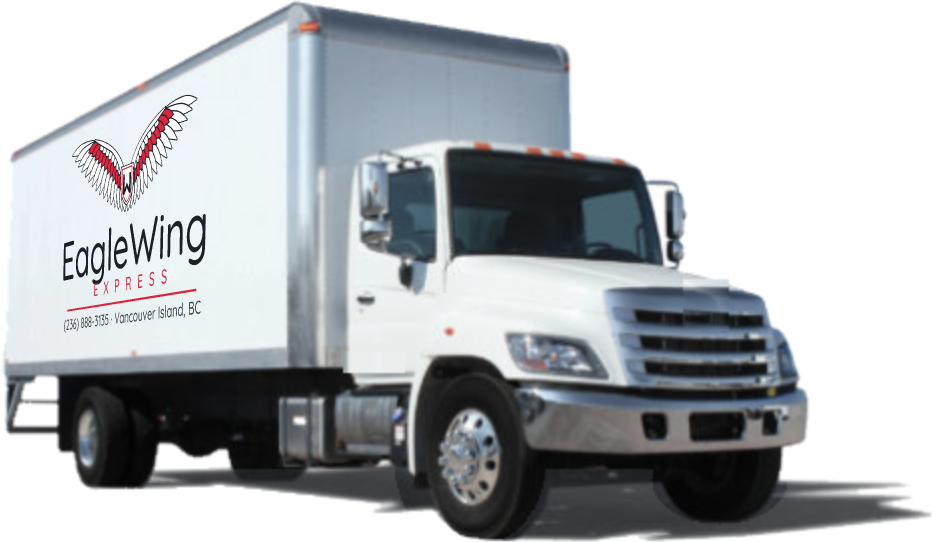
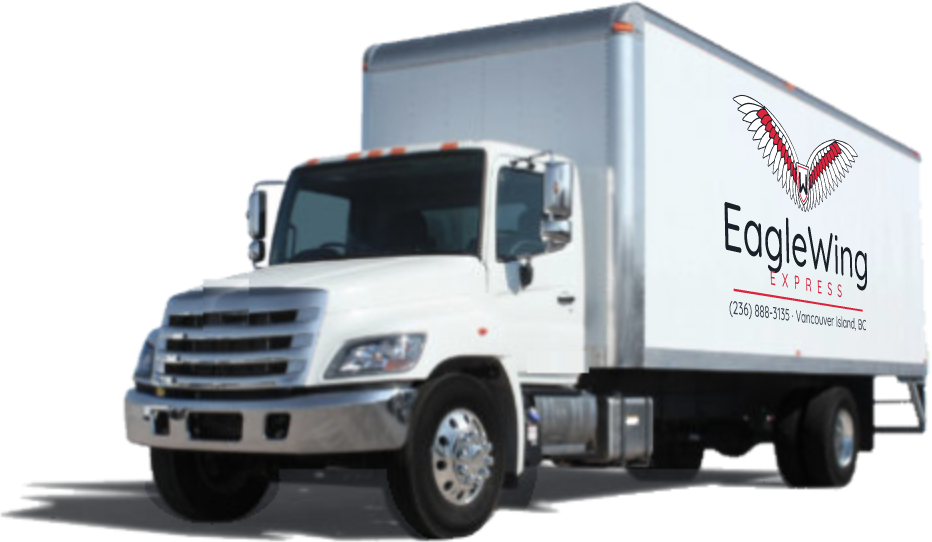
Truck in the photo's original orientation, driving right to left (forwards)

diff --git a/src/components/sections/RoadDivider.jsx b/src/components/sections/RoadDivider.jsx
@@ -5,9 +5,10 @@ import useScrollProgress from '../../hooks/useScrollProgress'
 
 /**
  * A stretch of Vancouver Island highway at the top of the page "curtain".
- * As you scroll, the EagleWing truck drives right while the scenery rolls
- * past in layers — Victoria's skyline and legislature dome give way to
- * evergreen forest, with the Island mountains moving slowest behind.
+ * As you scroll, the EagleWing truck drives left (forwards — it faces left)
+ * while the scenery rolls past the other way in layers: evergreen forest gives
+ * way to Victoria's skyline and legislature dome, with the Island mountains
+ * moving slowest behind.
  */
 export default function RoadDivider({ rounded = true }) {
   const ref = useRef(null)
@@ -19,12 +20,12 @@ export default function RoadDivider({ rounded = true }) {
         {/* far: mountains */}
         <Mountains
           className="absolute bottom-0 left-0 h-36 w-[2500px] max-w-none will-change-transform sm:h-44 sm:w-[3050px]"
-          style={{ transform: `translateX(${-p * 18}%)` }}
+          style={{ transform: `translateX(${-(1 - p) * 18}%)` }}
         />
         {/* mid: Victoria skyline → forest */}
         <CityToForest
           className="absolute bottom-0 left-0 h-28 w-[2240px] max-w-none will-change-transform sm:h-36 sm:w-[2880px]"
-          style={{ transform: `translateX(${-p * 45}%)` }}
+          style={{ transform: `translateX(${-(1 - p) * 45}%)` }}
         />
         {/* roadside verge */}
         <div className="absolute inset-x-0 bottom-0 h-3 bg-[#cfd5dc]" />
@@ -33,7 +34,7 @@ export default function RoadDivider({ rounded = true }) {
         <div
           className="absolute bottom-0 z-10 w-64 will-change-transform sm:w-[24rem]"
           style={{
-            left: `calc(${-12 + p * 110}% - 80px)`,
+            left: `calc(${98 - p * 110}% - 80px)`,
             transform: `translateY(${(1 - ROAD_EDGE) * 100}%)`,
           }}
         >
@@ -46,7 +47,7 @@ export default function RoadDivider({ rounded = true }) {
         <div className="absolute inset-x-0 top-0 h-1 bg-crimson" />
         <div
           className="absolute inset-x-0 top-1/2 h-1 -translate-y-1/2 bg-[repeating-linear-gradient(90deg,#ffffff_0_36px,transparent_36px_72px)] opacity-70"
-          style={{ backgroundPositionX: `${-p * 900}px` }}
+          style={{ backgroundPositionX: `${p * 900}px` }}
         />
       </div>
     </div>

diff --git a/src/components/ui/RealTruck.jsx b/src/components/ui/RealTruck.jsx
@@ -8,7 +8,8 @@ export const ROAD_EDGE = TRUCK_REAR_CONTACT - 0.07
 
 /**
  * Realistic EagleWing Express box truck (photo cut-out with the livery
- * painted on — built by scripts/make-truck.mjs). Faces right.
+ * painted on — built by scripts/make-truck.mjs). Faces left, as in the photo,
+ * so it drives right → left.
  *
  * `bounce` adds a subtle suspension bob while driving.
  */
@@ -43,7 +44,7 @@ export function TruckOnRoad({ duration = '9s', className = '' }) {
         <div className="absolute inset-x-0 top-0 h-0.5 bg-crimson" />
         <div className="road-dash absolute inset-x-0 top-[58%] h-0.5 -translate-y-1/2" style={{ animation: 'none' }} />
       </div>
-      <div className="truck-travel relative z-10 mx-auto w-[86%]" style={{ animationDuration: duration }}>
+      <div className="truck-travel-rtl relative z-10 mx-auto w-[86%]" style={{ animationDuration: duration }}>
         <RealTruck bounce eager />
       </div>
     </div>

diff --git a/src/index.css b/src/index.css
@@ -340,6 +340,12 @@
   from { transform: translateX(-105%); }
   to { transform: translateX(105%); }
 }
+/* Same, right → left (the photo truck faces left, so it drives forwards this way) */
+.truck-travel-rtl { animation: truck-travel-rtl 9s linear infinite; will-change: transform; }
+@keyframes truck-travel-rtl {
+  from { transform: translateX(105%); }
+  to { transform: translateX(-105%); }
+}
 @media (prefers-reduced-motion: reduce) {
-  .truck-travel, .animate-wheel, .truck-bounce, .road-dash { animation: none !important; }
+  .truck-travel, .truck-travel-rtl, .animate-wheel, .truck-bounce, .road-dash { animation: none !important; }
 }
